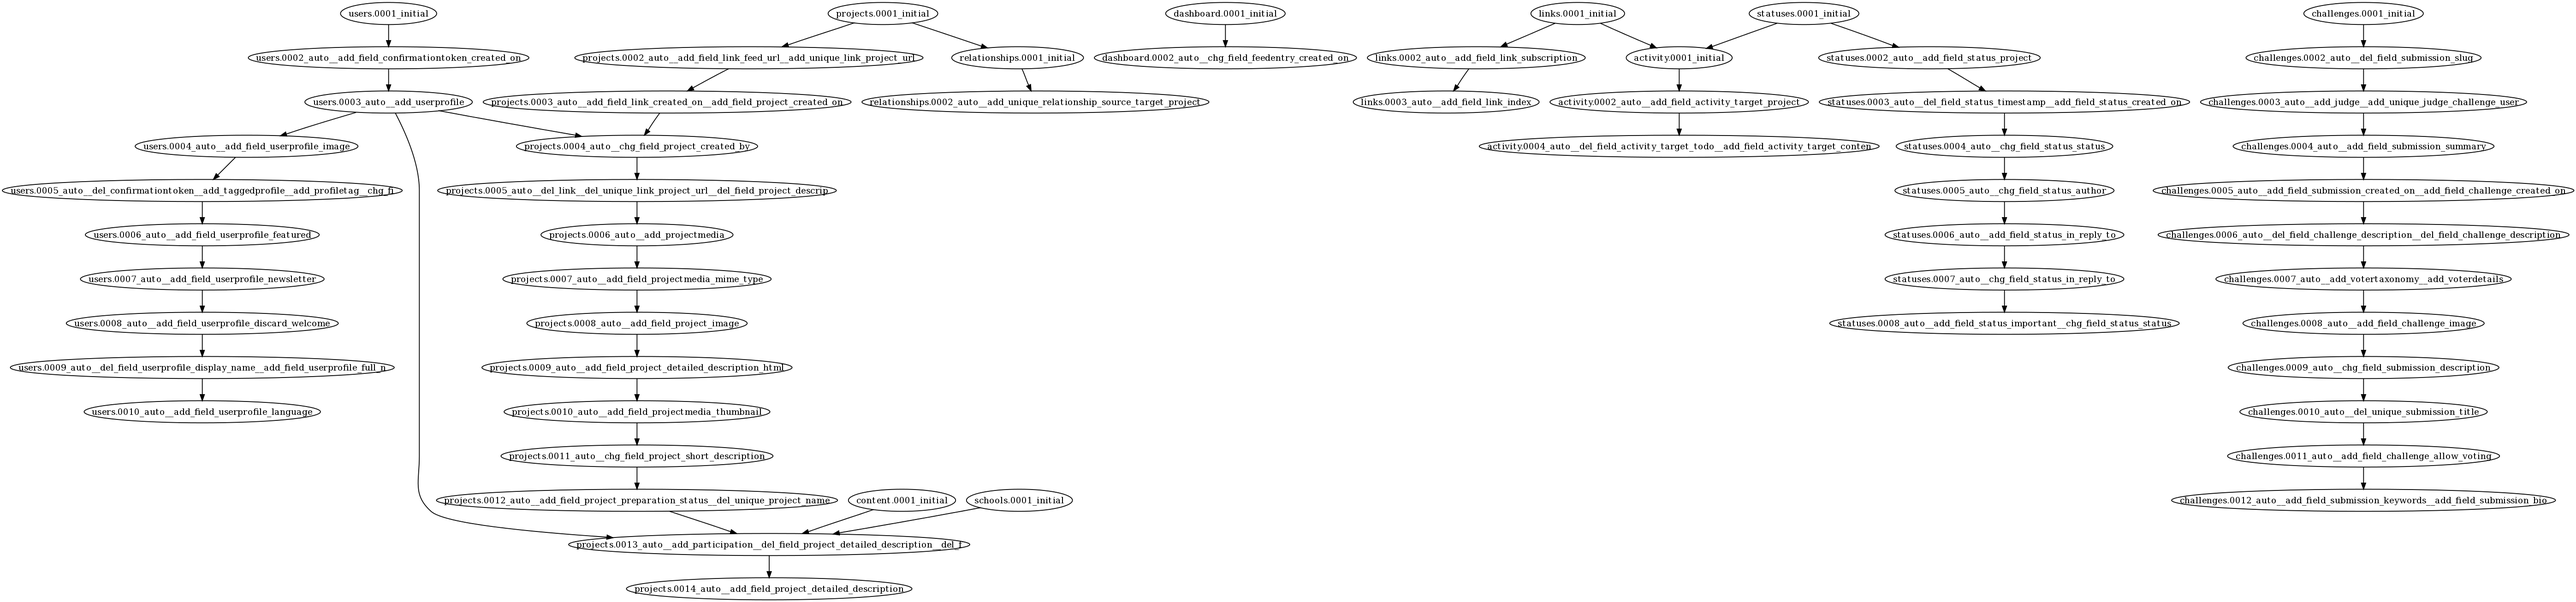
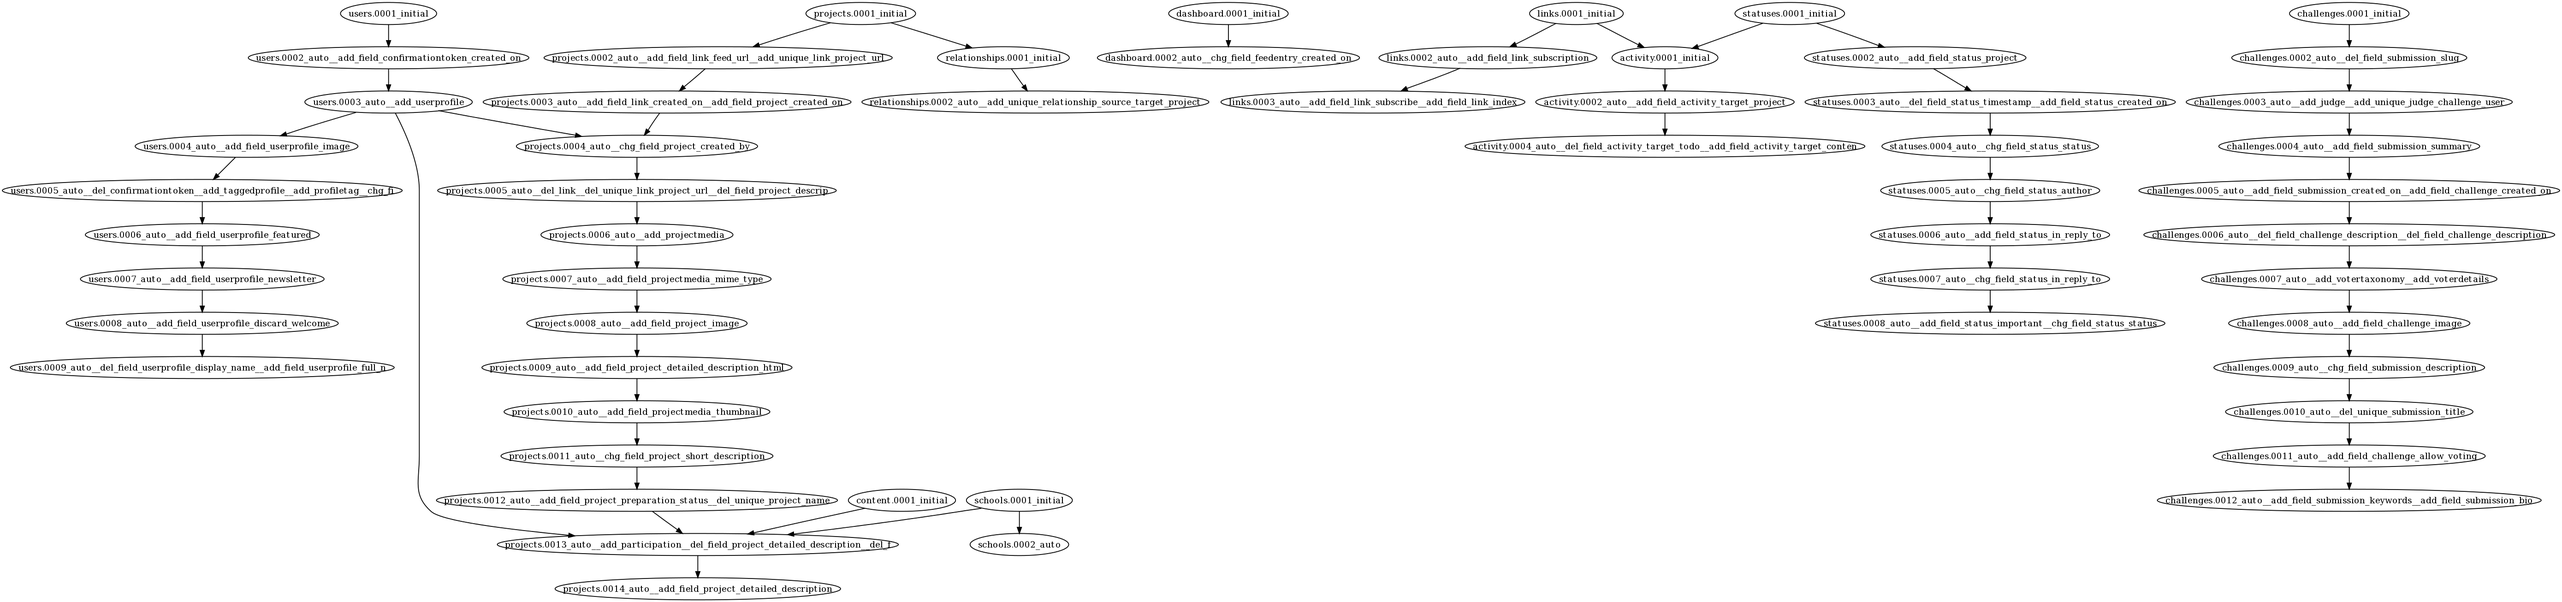
Completing migrations

diff --git a/apps/schools/migrations/0002_auto.py b/apps/schools/migrations/0002_auto.py
@@ -1,0 +1,154 @@
+# encoding: utf-8
+import datetime
+from south.db import db
+from south.v2 import SchemaMigration
+from django.db import models
+
+class Migration(SchemaMigration):
+
+    def forwards(self, orm):
+        
+        # Adding M2M table for field organizers on 'School'
+        db.create_table('schools_school_organizers', (
+            ('id', models.AutoField(verbose_name='ID', primary_key=True, auto_created=True)),
+            ('school', models.ForeignKey(orm['schools.school'], null=False)),
+            ('userprofile', models.ForeignKey(orm['users.userprofile'], null=False))
+        ))
+        db.create_unique('schools_school_organizers', ['school_id', 'userprofile_id'])
+
+        # Adding M2M table for field featured on 'School'
+        db.create_table('schools_school_featured', (
+            ('id', models.AutoField(verbose_name='ID', primary_key=True, auto_created=True)),
+            ('school', models.ForeignKey(orm['schools.school'], null=False)),
+            ('project', models.ForeignKey(orm['projects.project'], null=False))
+        ))
+        db.create_unique('schools_school_featured', ['school_id', 'project_id'])
+
+
+    def backwards(self, orm):
+        
+        # Removing M2M table for field organizers on 'School'
+        db.delete_table('schools_school_organizers')
+
+        # Removing M2M table for field featured on 'School'
+        db.delete_table('schools_school_featured')
+
+
+    models = {
+        'auth.group': {
+            'Meta': {'object_name': 'Group'},
+            'id': ('django.db.models.fields.AutoField', [], {'primary_key': 'True'}),
+            'name': ('django.db.models.fields.CharField', [], {'unique': 'True', 'max_length': '80'}),
+            'permissions': ('django.db.models.fields.related.ManyToManyField', [], {'to': "orm['auth.Permission']", 'symmetrical': 'False', 'blank': 'True'})
+        },
+        'auth.permission': {
+            'Meta': {'ordering': "('content_type__app_label', 'content_type__model', 'codename')", 'unique_together': "(('content_type', 'codename'),)", 'object_name': 'Permission'},
+            'codename': ('django.db.models.fields.CharField', [], {'max_length': '100'}),
+            'content_type': ('django.db.models.fields.related.ForeignKey', [], {'to': "orm['contenttypes.ContentType']"}),
+            'id': ('django.db.models.fields.AutoField', [], {'primary_key': 'True'}),
+            'name': ('django.db.models.fields.CharField', [], {'max_length': '50'})
+        },
+        'auth.user': {
+            'Meta': {'object_name': 'User'},
+            'date_joined': ('django.db.models.fields.DateTimeField', [], {'default': 'datetime.datetime.now'}),
+            'email': ('django.db.models.fields.EmailField', [], {'max_length': '75', 'blank': 'True'}),
+            'first_name': ('django.db.models.fields.CharField', [], {'max_length': '30', 'blank': 'True'}),
+            'groups': ('django.db.models.fields.related.ManyToManyField', [], {'to': "orm['auth.Group']", 'symmetrical': 'False', 'blank': 'True'}),
+            'id': ('django.db.models.fields.AutoField', [], {'primary_key': 'True'}),
+            'is_active': ('django.db.models.fields.BooleanField', [], {'default': 'True'}),
+            'is_staff': ('django.db.models.fields.BooleanField', [], {'default': 'False'}),
+            'is_superuser': ('django.db.models.fields.BooleanField', [], {'default': 'False'}),
+            'last_login': ('django.db.models.fields.DateTimeField', [], {'default': 'datetime.datetime.now'}),
+            'last_name': ('django.db.models.fields.CharField', [], {'max_length': '30', 'blank': 'True'}),
+            'password': ('django.db.models.fields.CharField', [], {'max_length': '128'}),
+            'user_permissions': ('django.db.models.fields.related.ManyToManyField', [], {'to': "orm['auth.Permission']", 'symmetrical': 'False', 'blank': 'True'}),
+            'username': ('django.db.models.fields.CharField', [], {'unique': 'True', 'max_length': '30'})
+        },
+        'content.page': {
+            'Meta': {'object_name': 'Page'},
+            'author': ('django.db.models.fields.related.ForeignKey', [], {'related_name': "'pages'", 'to': "orm['users.UserProfile']"}),
+            'collaborative': ('django.db.models.fields.BooleanField', [], {'default': 'True'}),
+            'content': ('django.db.models.fields.TextField', [], {}),
+            'editable': ('django.db.models.fields.BooleanField', [], {'default': 'True'}),
+            'id': ('django.db.models.fields.AutoField', [], {'primary_key': 'True'}),
+            'index': ('django.db.models.fields.IntegerField', [], {}),
+            'last_update': ('django.db.models.fields.DateTimeField', [], {'default': 'datetime.datetime.now', 'auto_now_add': 'True', 'blank': 'True'}),
+            'listed': ('django.db.models.fields.BooleanField', [], {'default': 'True'}),
+            'project': ('django.db.models.fields.related.ForeignKey', [], {'related_name': "'pages'", 'to': "orm['projects.Project']"}),
+            'slug': ('django.db.models.fields.SlugField', [], {'max_length': '110', 'db_index': 'True'}),
+            'title': ('django.db.models.fields.CharField', [], {'max_length': '100'})
+        },
+        'contenttypes.contenttype': {
+            'Meta': {'ordering': "('name',)", 'unique_together': "(('app_label', 'model'),)", 'object_name': 'ContentType', 'db_table': "'django_content_type'"},
+            'app_label': ('django.db.models.fields.CharField', [], {'max_length': '100'}),
+            'id': ('django.db.models.fields.AutoField', [], {'primary_key': 'True'}),
+            'model': ('django.db.models.fields.CharField', [], {'max_length': '100'}),
+            'name': ('django.db.models.fields.CharField', [], {'max_length': '100'})
+        },
+        'projects.project': {
+            'Meta': {'object_name': 'Project'},
+            'created_by': ('django.db.models.fields.related.ForeignKey', [], {'related_name': "'projects'", 'to': "orm['users.UserProfile']"}),
+            'created_on': ('django.db.models.fields.DateTimeField', [], {'default': 'datetime.datetime.now', 'auto_now_add': 'True', 'blank': 'True'}),
+            'detailed_description': ('django.db.models.fields.related.ForeignKey', [], {'blank': 'True', 'related_name': "'desc_project'", 'null': 'True', 'to': "orm['content.Page']"}),
+            'end_date': ('django.db.models.fields.DateField', [], {'null': 'True', 'blank': 'True'}),
+            'featured': ('django.db.models.fields.BooleanField', [], {'default': 'False'}),
+            'id': ('django.db.models.fields.AutoField', [], {'primary_key': 'True'}),
+            'image': ('django.db.models.fields.files.ImageField', [], {'max_length': '100', 'null': 'True', 'blank': 'True'}),
+            'long_description': ('django.db.models.fields.TextField', [], {}),
+            'name': ('django.db.models.fields.CharField', [], {'max_length': '100'}),
+            'school': ('django.db.models.fields.related.ForeignKey', [], {'blank': 'True', 'related_name': "'projects'", 'null': 'True', 'to': "orm['schools.School']"}),
+            'short_description': ('django.db.models.fields.CharField', [], {'max_length': '125'}),
+            'sign_up': ('django.db.models.fields.related.ForeignKey', [], {'blank': 'True', 'related_name': "'sign_up_project'", 'null': 'True', 'to': "orm['content.Page']"}),
+            'signup_closed': ('django.db.models.fields.BooleanField', [], {'default': 'True'}),
+            'slug': ('django.db.models.fields.SlugField', [], {'unique': 'True', 'max_length': '110', 'db_index': 'True'}),
+            'start_date': ('django.db.models.fields.DateField', [], {'null': 'True', 'blank': 'True'}),
+            'testing_sandbox': ('django.db.models.fields.BooleanField', [], {'default': 'False'}),
+            'under_development': ('django.db.models.fields.BooleanField', [], {'default': 'True'})
+        },
+        'schools.school': {
+            'Meta': {'object_name': 'School'},
+            'description': ('django.db.models.fields.TextField', [], {}),
+            'featured': ('django.db.models.fields.related.ManyToManyField', [], {'blank': 'True', 'related_name': "'school_featured'", 'null': 'True', 'symmetrical': 'False', 'to': "orm['projects.Project']"}),
+            'id': ('django.db.models.fields.AutoField', [], {'primary_key': 'True'}),
+            'name': ('django.db.models.fields.CharField', [], {'max_length': '100'}),
+            'organizers': ('django.db.models.fields.related.ManyToManyField', [], {'symmetrical': 'False', 'to': "orm['users.UserProfile']", 'null': 'True', 'blank': 'True'}),
+            'slug': ('django.db.models.fields.SlugField', [], {'db_index': 'True', 'unique': 'True', 'max_length': '50', 'blank': 'True'})
+        },
+        'taggit.tag': {
+            'Meta': {'object_name': 'Tag'},
+            'id': ('django.db.models.fields.AutoField', [], {'primary_key': 'True'}),
+            'name': ('django.db.models.fields.CharField', [], {'max_length': '100'}),
+            'slug': ('django.db.models.fields.SlugField', [], {'unique': 'True', 'max_length': '100', 'db_index': 'True'})
+        },
+        'users.profiletag': {
+            'Meta': {'object_name': 'ProfileTag', '_ormbases': ['taggit.Tag']},
+            'category': ('django.db.models.fields.CharField', [], {'max_length': '10'}),
+            'tag_ptr': ('django.db.models.fields.related.OneToOneField', [], {'to': "orm['taggit.Tag']", 'unique': 'True', 'primary_key': 'True'})
+        },
+        'users.taggedprofile': {
+            'Meta': {'object_name': 'TaggedProfile'},
+            'content_type': ('django.db.models.fields.related.ForeignKey', [], {'related_name': "'users_taggedprofile_tagged_items'", 'to': "orm['contenttypes.ContentType']"}),
+            'id': ('django.db.models.fields.AutoField', [], {'primary_key': 'True'}),
+            'object_id': ('django.db.models.fields.IntegerField', [], {'db_index': 'True'}),
+            'tag': ('django.db.models.fields.related.ForeignKey', [], {'related_name': "'users_taggedprofile_items'", 'to': "orm['users.ProfileTag']"})
+        },
+        'users.userprofile': {
+            'Meta': {'object_name': 'UserProfile'},
+            'bio': ('django.db.models.fields.TextField', [], {'default': "''", 'blank': 'True'}),
+            'confirmation_code': ('django.db.models.fields.CharField', [], {'default': "''", 'max_length': '255', 'blank': 'True'}),
+            'created_on': ('django.db.models.fields.DateTimeField', [], {'default': 'datetime.datetime.now', 'auto_now_add': 'True', 'blank': 'True'}),
+            'discard_welcome': ('django.db.models.fields.BooleanField', [], {'default': 'False'}),
+            'email': ('django.db.models.fields.EmailField', [], {'max_length': '75', 'unique': 'True', 'null': 'True'}),
+            'featured': ('django.db.models.fields.BooleanField', [], {'default': 'False'}),
+            'full_name': ('django.db.models.fields.CharField', [], {'default': "''", 'max_length': '255', 'null': 'True', 'blank': 'True'}),
+            'id': ('django.db.models.fields.AutoField', [], {'primary_key': 'True'}),
+            'image': ('django.db.models.fields.files.ImageField', [], {'default': "''", 'max_length': '100', 'null': 'True', 'blank': 'True'}),
+            'location': ('django.db.models.fields.CharField', [], {'default': "''", 'max_length': '255', 'blank': 'True'}),
+            'newsletter': ('django.db.models.fields.BooleanField', [], {'default': 'False'}),
+            'password': ('django.db.models.fields.CharField', [], {'default': "''", 'max_length': '255'}),
+            'user': ('django.db.models.fields.related.ForeignKey', [], {'to': "orm['auth.User']", 'null': 'True', 'blank': 'True'}),
+            'username': ('django.db.models.fields.CharField', [], {'default': "''", 'unique': 'True', 'max_length': '255'})
+        }
+    }
+
+    complete_apps = ['schools']
